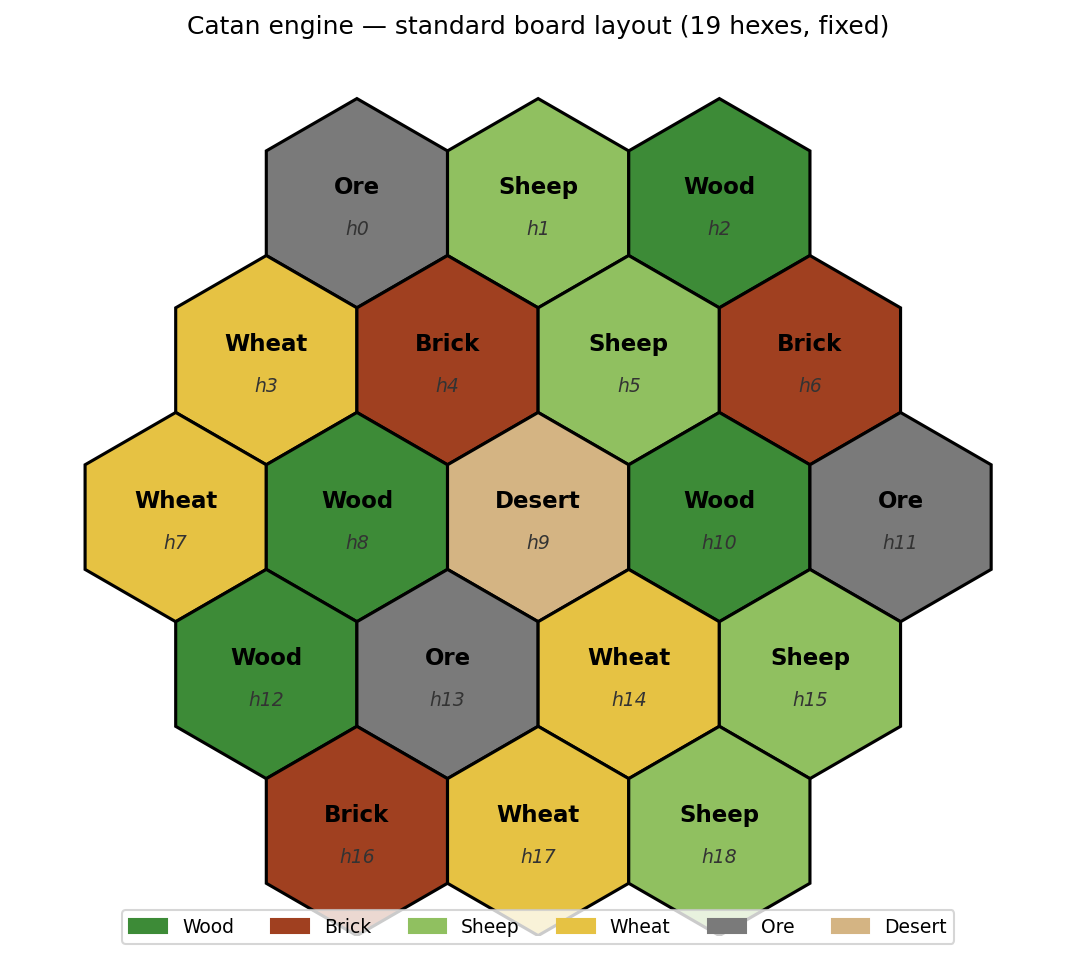
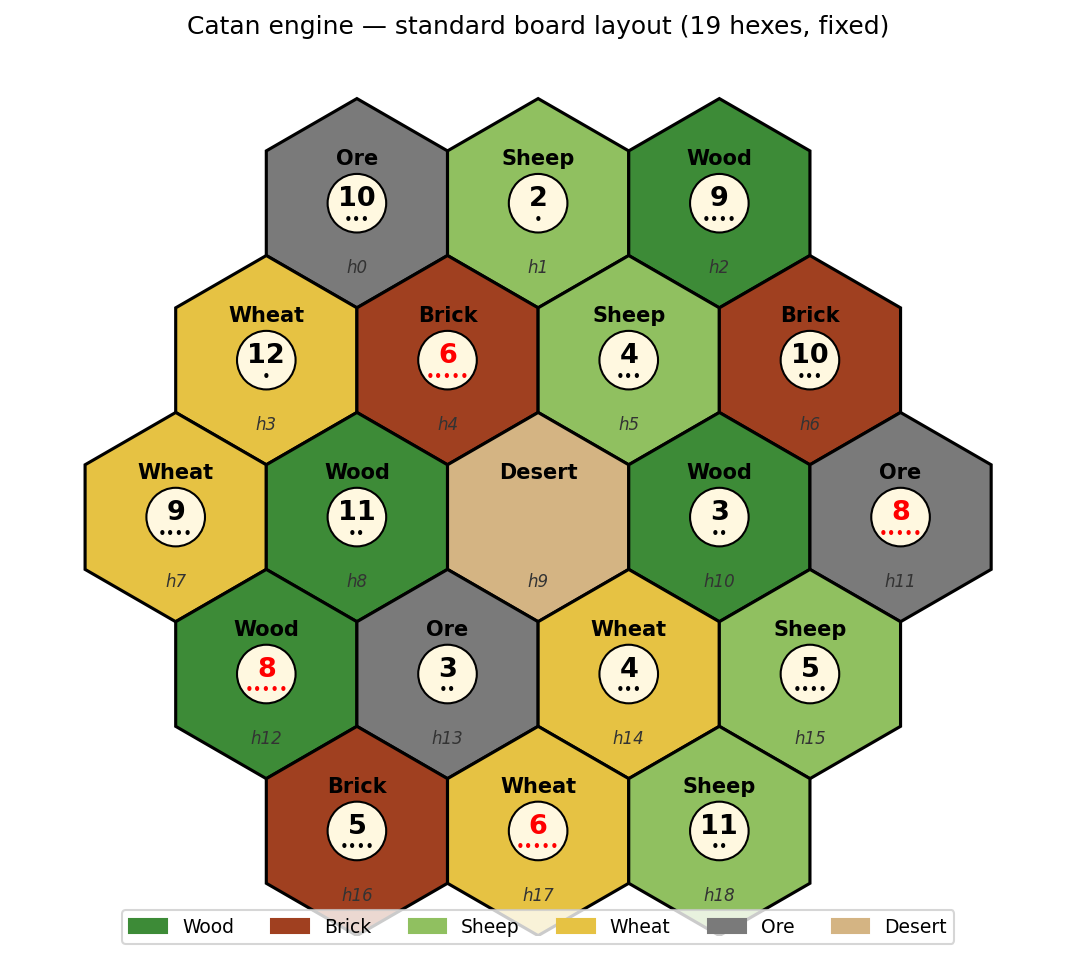
docs(mcts): add dice numbers to board layout image
Each tile now shows its dice number (centered in a circle) with pip dots
below indicating frequency on 2d6. Numbers 6 and 8 highlighted red per
standard Catan convention (highest production probability, 5/36 each).
Desert (h9) has no number, matching the engine.

Numbers from catan_engine/src/board.rs::standard_hexes.

diff --git a/mcts_study/render_board_layout.py b/mcts_study/render_board_layout.py
@@ -33,22 +33,44 @@ def hex_center_pointy(hex_id: int) -> tuple[float, float]:
     return x, y
 
 
-def draw_hex(ax, cx, cy, color, label, hex_id):
+def draw_hex(ax, cx, cy, color, label, hex_id, dice_num=None):
     angles = [math.pi / 6 + i * math.pi / 3 for i in range(6)]
     pts = [(cx + HEX_RADIUS * math.cos(a), cy + HEX_RADIUS * math.sin(a)) for a in angles]
     ax.add_patch(plt.Polygon(pts, facecolor=color, edgecolor="black", linewidth=1.5))
-    ax.text(cx, cy + 0.15, label, ha="center", va="center", fontsize=11, fontweight="bold")
-    ax.text(cx, cy - 0.25, f"h{hex_id}", ha="center", va="center",
-            fontsize=9, style="italic", color="#333333")
+    ax.text(cx, cy + 0.42, label, ha="center", va="center", fontsize=10, fontweight="bold")
+    ax.text(cx, cy - 0.62, f"h{hex_id}", ha="center", va="center",
+            fontsize=8, style="italic", color="#333333")
+
+    if dice_num is not None:
+        # Red for 6/8 (highest production probability) — standard Catan convention.
+        num_color = "red" if dice_num in (6, 8) else "black"
+        # White circle backdrop so the number reads against any tile color.
+        ax.add_patch(plt.Circle((cx, cy), 0.28,
+                                facecolor="#fff8e0", edgecolor="black", linewidth=1.0))
+        ax.text(cx, cy + 0.04, str(dice_num), ha="center", va="center",
+                fontsize=13, fontweight="bold", color=num_color)
+        # Pip dots underneath: count = 6 - |7 - dice_num| (frequency on 2d6).
+        pips = 6 - abs(7 - dice_num)
+        pip_str = "•" * pips
+        ax.text(cx, cy - 0.16, pip_str, ha="center", va="center",
+                fontsize=7, color=num_color)
 
 
-# Resources from catan_engine/src/board.rs::standard_hexes
+# Resources + dice numbers from catan_engine/src/board.rs::standard_hexes.
+# Order is the spiral order from top-left, rows of 3-4-5-4-3.
 RESOURCES = [
     "Ore",   "Sheep", "Wood",
     "Wheat", "Brick", "Sheep", "Brick",
     "Wheat", "Wood",  "Desert", "Wood", "Ore",
     "Wood",  "Ore",   "Wheat",
     "Sheep", "Brick", "Wheat", "Sheep",
+]
+DICE = [
+    10, 2,  9,
+    12, 6,  4,  10,
+    9,  11, None, 3, 8,
+    8,  3,  4,
+    5,  5,  6, 11,
 ]
 COLORS = {
     "Wood":   "#3d8b37",
@@ -65,7 +87,7 @@ def main(out_path: str = "mcts_study/board_layout.png"):
     for h in range(19):
         cx, cy = hex_center_pointy(h)
         res = RESOURCES[h]
-        draw_hex(ax, cx, cy, COLORS[res], res, h)
+        draw_hex(ax, cx, cy, COLORS[res], res, h, dice_num=DICE[h])
 
     ax.set_title("Catan engine — standard board layout (19 hexes, fixed)",
                  fontsize=12)
